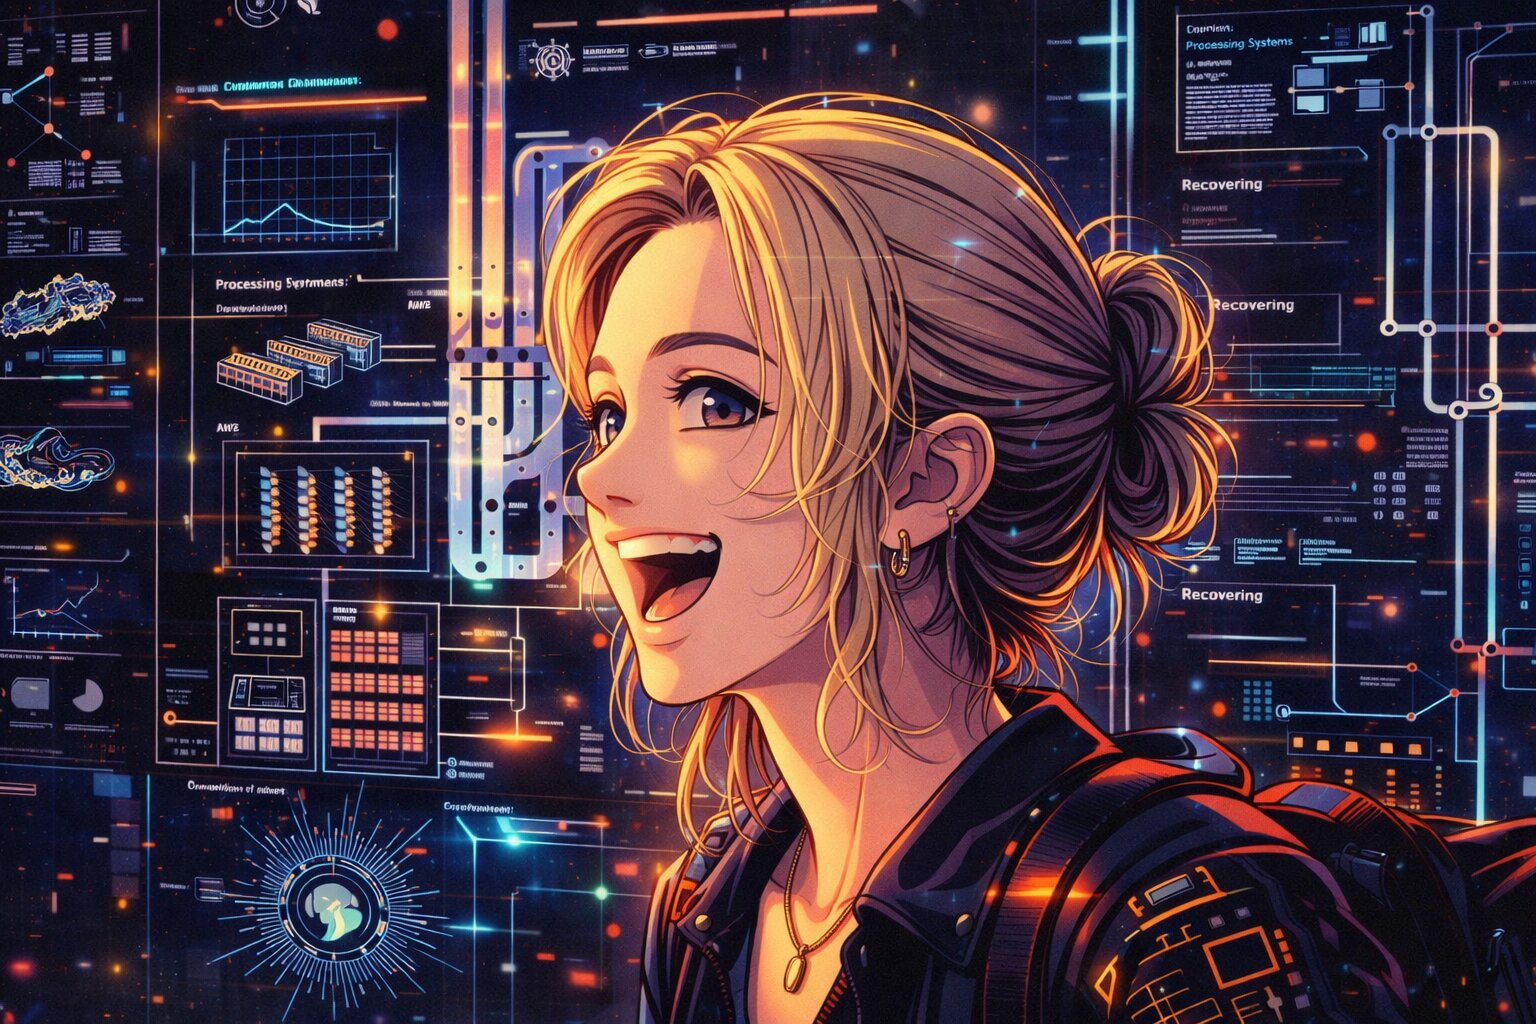
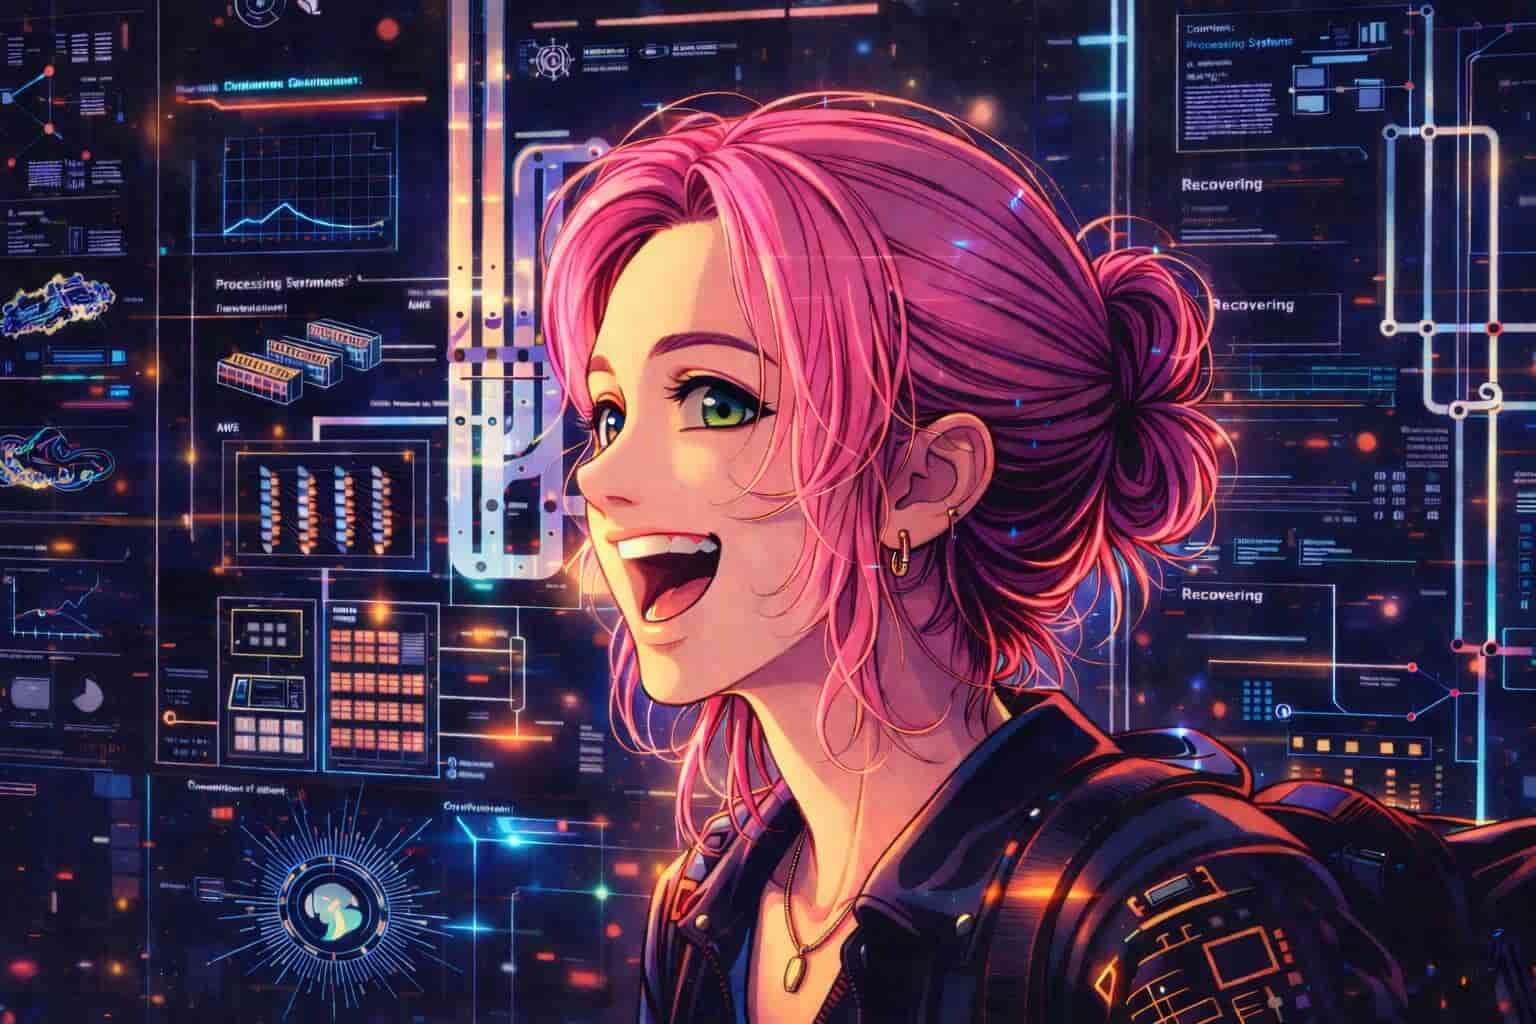
basic perf updates

diff --git a/src/app/about-me/page.tsx b/src/app/about-me/page.tsx
@@ -57,7 +57,7 @@ export default function AboutMePage() {
                   style={{
                     fontFamily: "var(--font-nunito), sans-serif",
                     fontSize: "15px",
-                    color: "#a080c0",
+                    color: "#7a5890",
                     letterSpacing: "0.5px",
                   }}
                 >
@@ -94,7 +94,7 @@ export default function AboutMePage() {
                       fontFamily: "var(--font-nunito), sans-serif",
                       fontSize: "15px",
                       fontWeight: 700,
-                      color: "#c8aaf0",
+                      color: "#7a5890",
                       flexShrink: 0,
                     }}
                   >
@@ -195,7 +195,7 @@ export default function AboutMePage() {
                     style={{
                       fontSize: "14px",
                       fontWeight: 400,
-                      color: "#a080c0",
+                      color: "#7a5890",
                       marginLeft: "8px",
                     }}
                   >
@@ -206,7 +206,7 @@ export default function AboutMePage() {
                   style={{
                     fontFamily: "var(--font-nunito), sans-serif",
                     fontSize: "13px",
-                    color: "#b098c8",
+                    color: "#7a5890",
                     background: "#f4eeff",
                     border: "1px solid #c8aaf0",
                     padding: "3px 8px",
@@ -257,7 +257,7 @@ export default function AboutMePage() {
                         style={{
                           fontFamily: "var(--font-nunito), sans-serif",
                           fontSize: "13px",
-                          color: "#b098c8",
+                          color: "#7a5890",
                         }}
                       >
                         {role.period}
@@ -353,7 +353,7 @@ export default function AboutMePage() {
                     style={{
                       fontFamily: "var(--font-nunito), sans-serif",
                       fontSize: "15px",
-                      color: "#a080c0",
+                      color: "#7a5890",
                       fontWeight: 700,
                       marginTop: "2px",
                     }}
@@ -365,7 +365,7 @@ export default function AboutMePage() {
                       style={{
                         fontFamily: "var(--font-nunito), sans-serif",
                         fontSize: "14px",
-                        color: "#b098c8",
+                        color: "#7a5890",
                         fontStyle: "italic",
                         marginTop: "3px",
                       }}
@@ -378,7 +378,7 @@ export default function AboutMePage() {
                   style={{
                     fontFamily: "var(--font-nunito), sans-serif",
                     fontSize: "13px",
-                    color: "#b098c8",
+                    color: "#7a5890",
                     background: "#f4eeff",
                     border: "1px solid #c8aaf0",
                     padding: "4px 8px",

diff --git a/src/app/globals.css b/src/app/globals.css
@@ -221,77 +221,6 @@ body {
   border-radius: 4px;
 }
 
-/* ── Animations ── */
-@keyframes marquee {
-  from {
-    transform: translateX(0);
-  }
-  to {
-    transform: translateX(-50%);
-  }
-}
-@keyframes blink {
-  0%, 100% {
-    opacity: 1;
-  }
-  50% {
-    opacity: 0;
-  }
-}
-@keyframes sparkle {
-  0%, 100% {
-    transform: scale(1) rotate(0deg);
-    opacity: 1;
-  }
-  50% {
-    transform: scale(1.4) rotate(180deg);
-    opacity: 0.65;
-  }
-}
-@keyframes float {
-  0%, 100% {
-    transform: translateY(0) rotate(-3deg);
-  }
-  50% {
-    transform: translateY(-7px) rotate(3deg);
-  }
-}
-@keyframes heartbeat {
-  0%, 100% {
-    transform: scale(1);
-  }
-  25% {
-    transform: scale(1.2);
-  }
-  75% {
-    transform: scale(1.08);
-  }
-}
-@keyframes load-bar {
-  0% {
-    width: 0%;
-  }
-  100% {
-    width: 85%;
-  }
-}
-
-.blink {
-  animation: blink 1s step-end infinite;
-}
-.sparkle {
-  display: inline-block;
-  animation: sparkle 2s ease-in-out infinite;
-}
-.float {
-  display: inline-block;
-  animation: float 3.5s ease-in-out infinite;
-}
-.heartbeat {
-  display: inline-block;
-  animation: heartbeat 1.8s ease-in-out infinite;
-}
-
 /* ── Themed navbar ── */
 .site-navbar-bar {
   background: linear-gradient(
@@ -302,25 +231,13 @@ body {
   );
   border-bottom: 2px solid var(--window-border);
 }
-.site-marquee-bar {
-  background: var(--marquee-bg);
-  border-bottom: 1px solid var(--window-border);
-}
 
-/* Marquee */
-.marquee-wrapper {
-  overflow: hidden;
-  width: 100%;
-}
-.marquee-track {
-  display: flex;
-  width: max-content;
-  animation: marquee 20s linear infinite;
-}
-.marquee-content {
-  white-space: nowrap;
-  flex-shrink: 0;
-  padding-right: 3rem;
+@media (prefers-reduced-motion: reduce) {
+  *, *::before, *::after {
+    animation-duration: 0.01ms !important;
+    animation-iteration-count: 1 !important;
+    transition-duration: 0.01ms !important;
+  }
 }
 
 /* ── OS Window chrome ── */
@@ -399,27 +316,6 @@ body {
   box-shadow: 3px 3px 0px #a888d8;
 }
 
-/* ── Loading bar ── */
-.loading-bar-track {
-  background: var(--lavender-pale);
-  border: 2px solid var(--lavender);
-  border-radius: 3px;
-  height: 14px;
-  overflow: hidden;
-  padding: 1px;
-}
-.loading-bar-fill {
-  height: 100%;
-  background: repeating-linear-gradient(
-    90deg,
-    var(--lavender) 0px,
-    var(--lavender) 10px,
-    var(--lavender-soft) 10px,
-    var(--lavender-soft) 14px
-  );
-  border-radius: 2px;
-  animation: load-bar 2s ease-out forwards;
-}
 
 /* ── MDX Prose ── */
 .y2k-prose {

diff --git a/src/components/Navbar.tsx b/src/components/Navbar.tsx
@@ -45,7 +45,7 @@ export default function Navbar() {
               minWidth: 0,
             }}
           >
-            <CatGif src="/flowers.gif" alt="flowers" />
+            <FlowerGif />
             <span
               style={{
                 fontFamily: "var(--font-nunito), sans-serif",
@@ -57,7 +57,7 @@ export default function Navbar() {
             >
               Lauren&apos;s Blogfolio
             </span>
-            <CatGif src="/flowers.gif" alt="flowers" />
+            <FlowerGif />
           </Link>
         </div>
 
@@ -80,6 +80,8 @@ export default function Navbar() {
           <ThemeSwitcher />
           <button
             type="button"
+            aria-label="Toggle navigation menu"
+            aria-expanded={open}
             onClick={() => setOpen((o) => !o)}
             style={{
               background: "rgba(255,255,255,0.4)",
@@ -147,11 +149,11 @@ export default function Navbar() {
   );
 }
 
-function CatGif({ src, alt }: { src: string; alt: string }) {
+function FlowerGif() {
   return (
     <Image
-      src={src}
-      alt={alt}
+      src="/flowers.gif"
+      alt=""
       width={40}
       height={40}
       style={{ imageRendering: "pixelated", objectFit: "contain" }}

diff --git a/src/app/layout.tsx b/src/app/layout.tsx
@@ -51,6 +51,14 @@ export default function RootLayout({
 }) {
   return (
     <html lang="en" className={`${nunito.variable} ${pressStart.variable}`}>
+      <head>
+        <link
+          rel="preload"
+          href="/laurenAnime.jpg"
+          as="image"
+          fetchPriority="high"
+        />
+      </head>
       <body>
         <CursorEffects />
         <Navbar />

diff --git a/next.config.ts b/next.config.ts
@@ -2,6 +2,9 @@ import type { NextConfig } from "next";
 
 const nextConfig: NextConfig = {
   output: "standalone",
+  images: {
+    formats: ["image/avif", "image/webp"],
+  },
 };
 
 export default nextConfig;
